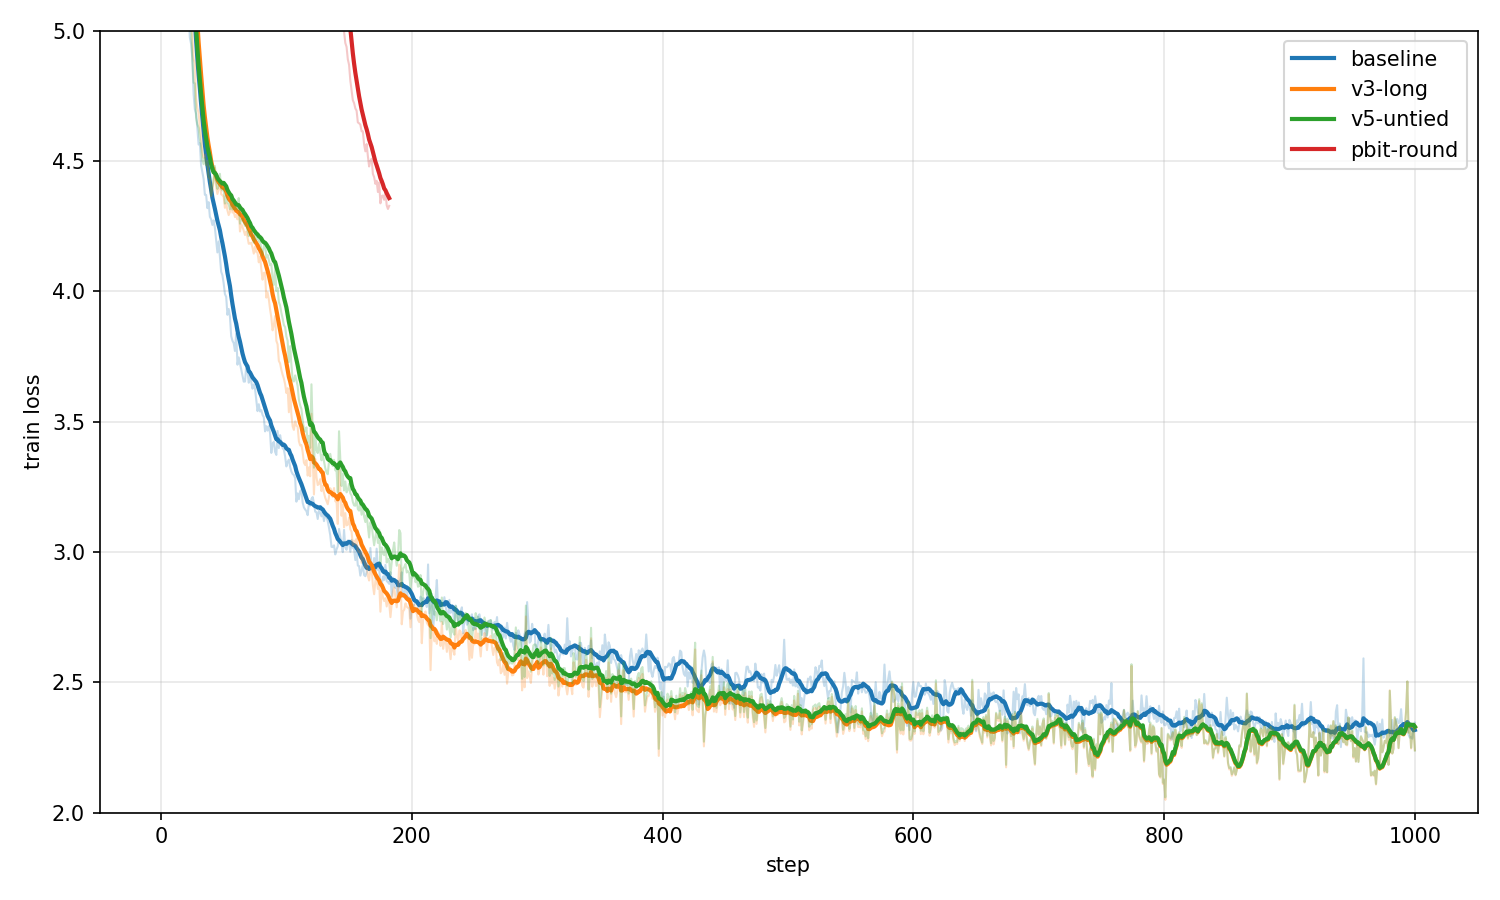
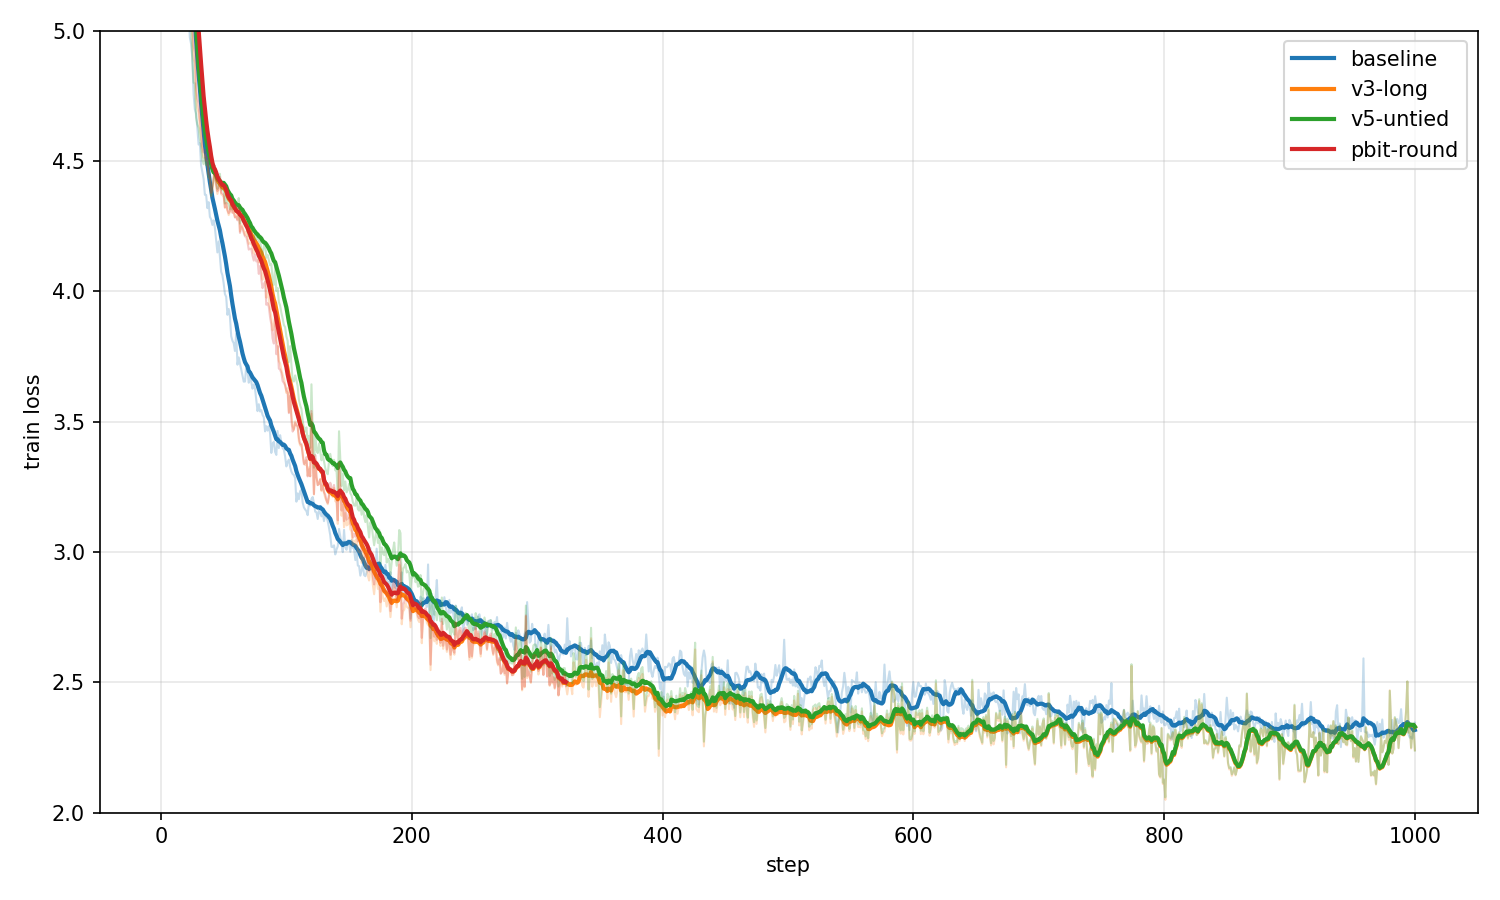
gix norm

diff --git a/train_pbit.py b/train_pbit.py
@@ -673,11 +673,11 @@ class PBitLinear(nn.Module):
         var = (0.5 - torch.abs(p - 0.5)).square().clamp_min(1e-6)
 
         # unit in -> unit out scaling
-        row_scales = 1 / ((w.square() + var * noise_scale.square()).sum(dim=-1, keepdim=True).float() + 1e-6)
+        row_scales = 1 / (0.5 * math.sqrt(self.in_features))
         matrix_scale = (
             (1.0 + self.in_scale.to(w.dtype))[None, :] *
             (1.0 + self.out_scale.to(w.dtype))[:, None] *
-            row_scales.to(w.dtype)
+            row_scales
         )
         
         w = w * matrix_scale
@@ -693,11 +693,11 @@ class PBitLinear(nn.Module):
 
         b = torch.sign(w) * torch.round(p).to(w.dtype)
 
-        row_scales = 1 / (torch.norm(w.float(), dim=1, keepdim=True) + 1e-6)
+        row_scales = 1 / (0.5 * math.sqrt(self.in_features))
         matrix_scale = (
             (1.0 + self.in_scale.to(b.dtype))[None, :] *
             (1.0 + self.out_scale.to(b.dtype))[:, None] *
-            row_scales.to(b.dtype)
+            row_scales
         )
 
         return b * matrix_scale
@@ -708,10 +708,20 @@ def clamp_weight(weight) -> None:
     weight.clamp_(-1.0 / weight.pbit_scale, 1.0 / weight.pbit_scale)
 
 
+class RoundPSTE(torch.autograd.Function):
+
+    @staticmethod
+    def forward(ctx, x: Tensor) -> Tensor:
+        return torch.round(x).to(x.dtype)
+
+    @staticmethod
+    def backward(ctx, grad_output: Tensor) -> Tensor:
+        return grad_output
+
 def get_density(weight) -> Tensor:
 
     w = STEFunction.apply(weight * weight.pbit_scale)
-    p = w.abs()
+    p = RoundPSTE.apply(w)
 
     row_density = p.mean(dim=-1, keepdim=True)
     column_density = p.mean(dim=-2, keepdim=True)
